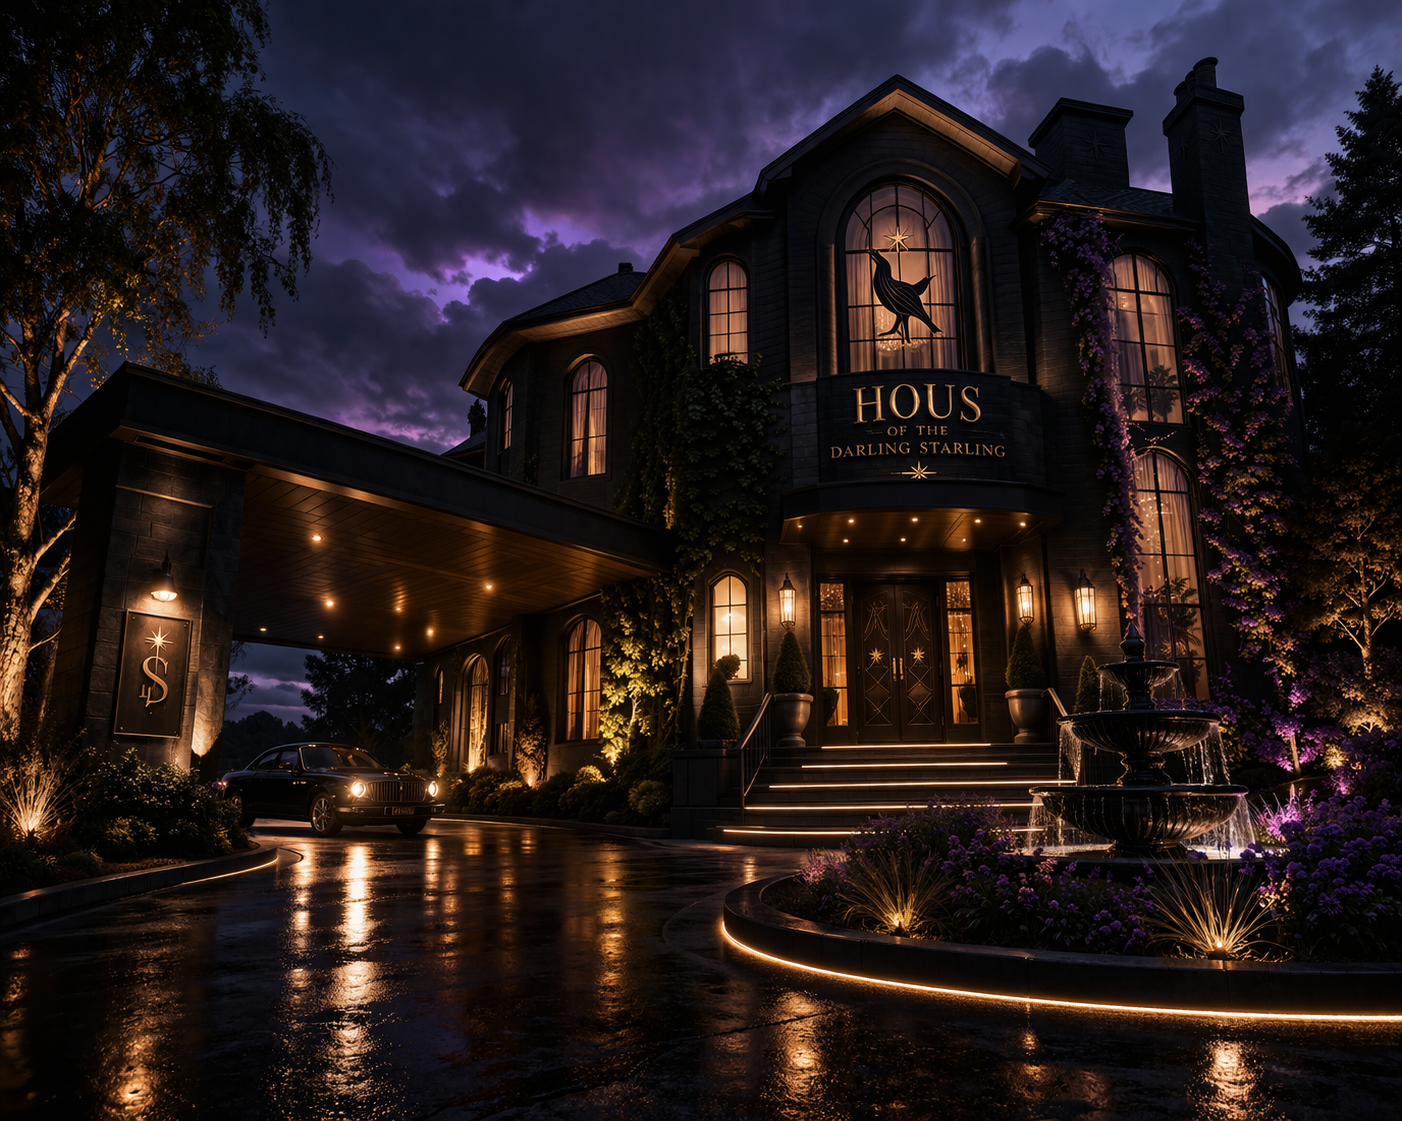
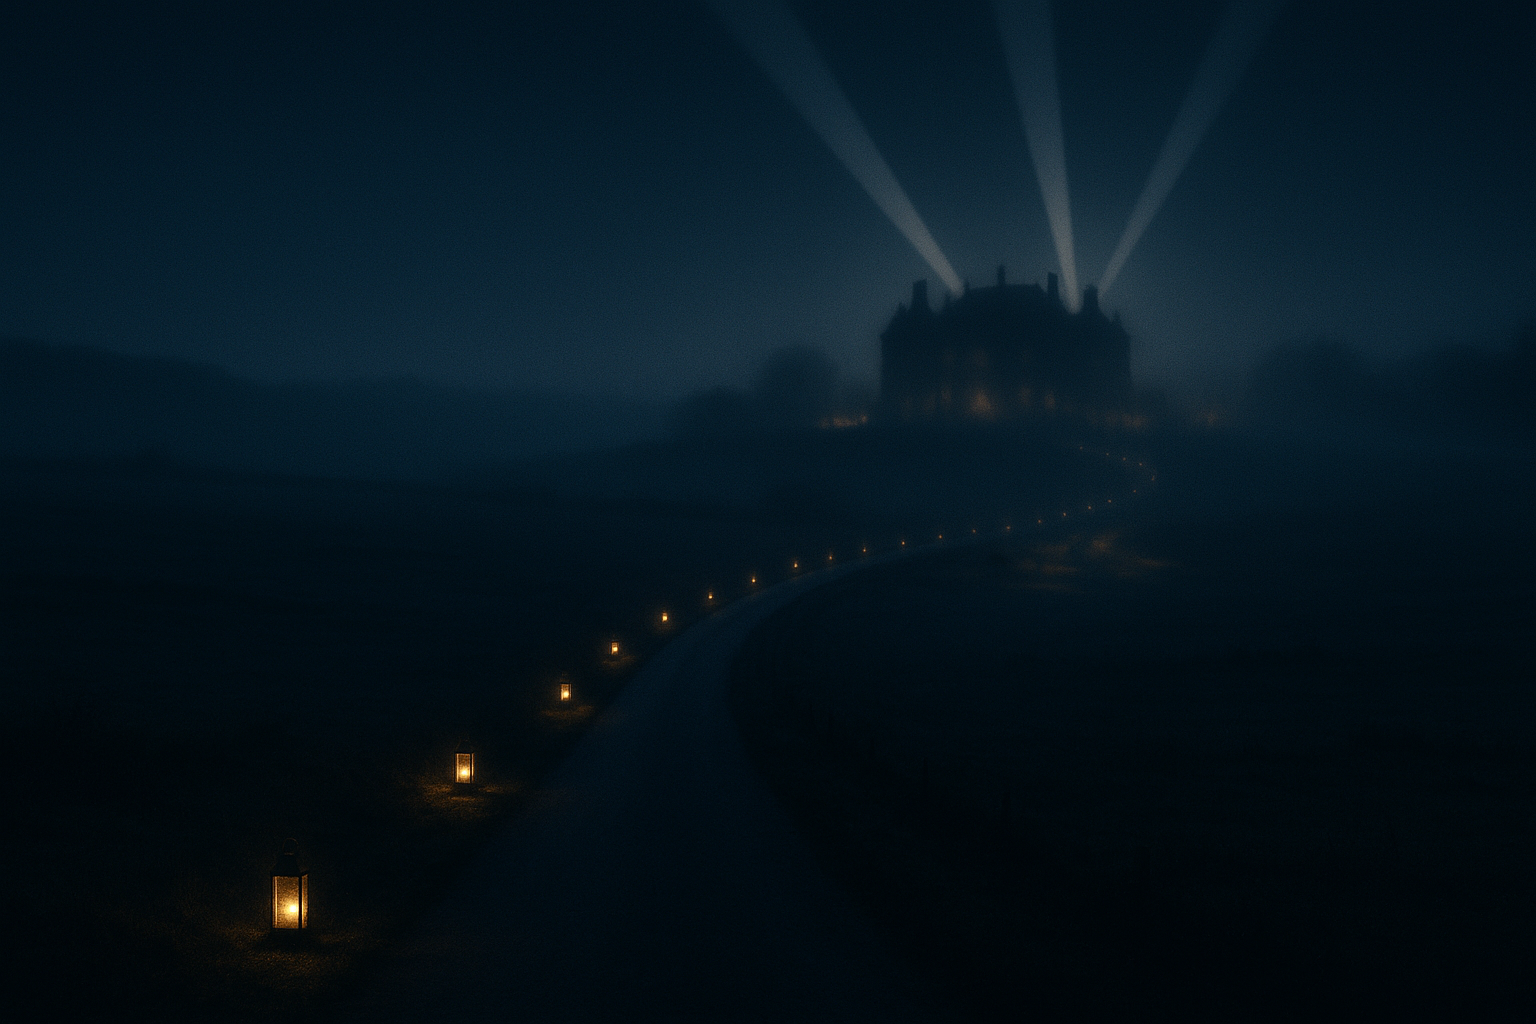
Regenerate the hero image; showcase Liquid Candy and Lyric Lab
Hero
The previous AI hero implied an estate that does not exist — it read as a
literal photograph of a house the Hous does not have. Replaced with an
image that is honest about the stage things are at: a distant silhouette,
deliberately hazy and out of focus, reached by a winding road lined with
lanterns. Searchlights sweep the sky and a warm glow sits at the base of
the house, implying activity without depicting it. You can see where it
is and that something is happening there; you have not arrived.

Generated with gpt-image-1; provenance sidecar committed alongside it.
Alt text now describes what is actually in the frame.

Products
"First Light" no longer reflects what is in development — that is now
Liquid Candy and Lyric Lab. Section retitled and both added as cards in
the existing OddsAI style, using the copy already written for them on the
starling-labs-site branch rather than inventing new claims.

Starling Premium Media Tools is being rebranded, so its card comes down
and its option is removed from the contact form's tool-of-interest list
(that value is stored as free-form detail JSON and is not validated
server-side, so removing it breaks nothing).

Also adds a link from her bio to anastasiastarling.com, where the
performances, gallery and booking actually live.

diff --git a/src/app/page.tsx b/src/app/page.tsx
@@ -1,7 +1,8 @@
 import Image from "next/image";
 import Link from "next/link";
 import OddsAIPromo from "@/components/OddsAIPromo";
-import StarlingMediaToolsPromo from "@/components/StarlingMediaToolsPromo";
+import LiquidCandyPromo from "@/components/LiquidCandyPromo";
+import LyricLabPromo from "@/components/LyricLabPromo";
 import UpcomingShowBanner from "@/components/UpcomingShowBanner";
 
 // Re-render hourly so the upcoming-show banner can self-hide after the event.
@@ -52,7 +53,7 @@ export default function LandingPage() {
         <div className="absolute inset-0 opacity-0 animate-fade-in-slow delay-300" style={{ animationDuration: "3s", animationFillMode: "forwards" }}>
           <Image
             src="/hous-hero.png"
-            alt="Hous of The Darling Starling — an elegant dark estate illuminated at twilight"
+            alt="A lantern-lit road winding through dark countryside toward the distant, hazy silhouette of the Hous, with searchlight beams sweeping the night sky above it"
             fill
             priority
             className="object-cover object-center"
@@ -179,6 +180,20 @@ export default function LandingPage() {
                   her name for a reason.
                 </p>
               </div>
+
+              {/* Her own site — performances, gallery and booking live there. */}
+              <div className="mt-8">
+                <a
+                  href="https://anastasiastarling.com"
+                  target="_blank"
+                  rel="noopener noreferrer"
+                  className="inline-block px-8 py-3 border border-gold/30 rounded text-gold text-sm
+                             tracking-widest uppercase hover:bg-gold/10 hover:border-gold/50
+                             transition-all duration-300"
+                >
+                  Visit anastasiastarling.com
+                </a>
+              </div>
             </div>
           </div>
         </div>
@@ -193,7 +208,7 @@ export default function LandingPage() {
             </span>
           </div>
           <h2 className="font-serif text-3xl sm:text-4xl font-light text-white mb-10">
-            First Light
+            What&apos;s Being Built
           </h2>
           <div className="space-y-6 text-cream-dim leading-relaxed text-lg max-w-2xl mx-auto">
             <p>
@@ -208,9 +223,10 @@ export default function LandingPage() {
             </p>
           </div>
 
-          <div className="grid grid-cols-1 lg:grid-cols-2 gap-6 mt-12">
+          <div className="grid grid-cols-1 sm:grid-cols-2 lg:grid-cols-3 gap-6 mt-12">
+            <LiquidCandyPromo />
+            <LyricLabPromo />
             <OddsAIPromo />
-            <StarlingMediaToolsPromo />
           </div>
         </div>
       </section>

diff --git a/src/components/LiquidCandyPromo.jsx b/src/components/LiquidCandyPromo.jsx
@@ -1,16 +1,16 @@
-export default function StarlingMediaToolsPromo() {
+export default function LiquidCandyPromo() {
   return (
     <div className="bg-bg-card border border-border rounded-lg p-8 sm:p-10 text-center h-full flex flex-col">
       {/* Status pill */}
       <div className="mb-8">
         <span className="inline-block px-4 py-1.5 border border-gold/20 rounded-full text-gold text-xs tracking-[0.3em] uppercase">
-          In Development
+          Coming Soon
         </span>
       </div>
 
       {/* Tool name */}
       <h3 className="font-serif text-2xl sm:text-3xl font-light tracking-wide text-white mb-4">
-        Starling Premium Media Tools
+        Liquid Candy
       </h3>
 
       {/* Decorative rule */}
@@ -18,13 +18,12 @@ export default function StarlingMediaToolsPromo() {
 
       {/* Description */}
       <p className="text-cream-dim/60 text-sm leading-relaxed max-w-md mx-auto mb-3">
-        A private suite of premium media tools for creators within the Hous
-        ecosystem — built for those who treat their craft as an art form, not
-        a content mill.
+        Your AI mixologist. Ask Candy for any cocktail or shot and get the
+        perfect mix back — ingredients, technique, and the pro tips that make
+        it taste like someone who knows what they&apos;re doing made it.
       </p>
       <p className="text-cream-dim/40 text-xs leading-relaxed max-w-sm mx-auto">
-        Media management, audio processing, visual tools, and show-day
-        workflows — designed backstage, for backstage.
+        The first flagship app — arriving on the App Store and Google Play.
       </p>
     </div>
   );

diff --git a/src/components/LyricLabPromo.jsx b/src/components/LyricLabPromo.jsx
@@ -1,0 +1,32 @@
+export default function LyricLabPromo() {
+  return (
+    <div className="bg-bg-card border border-border rounded-lg p-8 sm:p-10 text-center h-full flex flex-col">
+      {/* Status pill */}
+      <div className="mb-8">
+        <span className="inline-block px-4 py-1.5 border border-gold/20 rounded-full text-gold text-xs tracking-[0.3em] uppercase">
+          In Development
+        </span>
+      </div>
+
+      {/* Tool name */}
+      <h3 className="font-serif text-2xl sm:text-3xl font-light tracking-wide text-white mb-4">
+        Lyric Lab
+      </h3>
+
+      {/* Decorative rule */}
+      <div className="w-12 h-px bg-gold/30 mx-auto mb-6" />
+
+      {/* Description */}
+      <p className="text-cream-dim/60 text-sm leading-relaxed max-w-md mx-auto mb-3">
+        A lip-sync practice studio for performers. Pick a song and it pulls
+        time-synced lyrics, then drills you against the audio until the words
+        are yours — karaoke highlighting, section looping, pitch-corrected
+        slow-down, and progressive word-hiding.
+      </p>
+      <p className="text-cream-dim/40 text-xs leading-relaxed max-w-sm mx-auto">
+        A test mode flags exactly what to drill next. Everything caches
+        locally, so a song works offline after the first fetch.
+      </p>
+    </div>
+  );
+}

diff --git a/src/components/ContactForm.tsx b/src/components/ContactForm.tsx
@@ -499,7 +499,6 @@ export default function ContactForm() {
             >
               <option value="" className="bg-bg-card text-cream">Select a tool (optional)</option>
               <option value="oddsai" className="bg-bg-card text-cream">OddsAI</option>
-              <option value="starling-media" className="bg-bg-card text-cream">Starling Premium Media Tools</option>
               <option value="big-green-machine" className="bg-bg-card text-cream">The Big Green Machine</option>
               <option value="slayjar" className="bg-bg-card text-cream">SlayJar</option>
               <option value="character-expressions" className="bg-bg-card text-cream">Character Expressions & AI Canon Builder</option>
